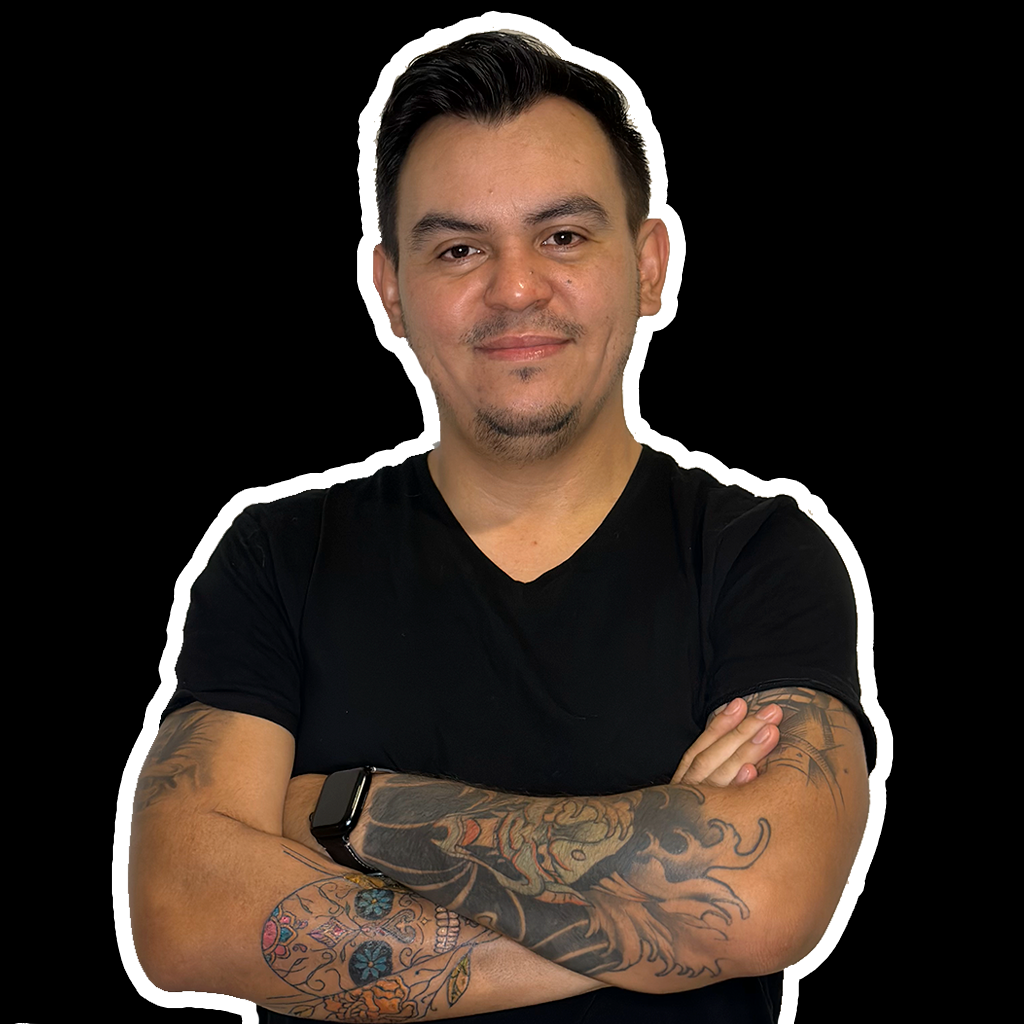
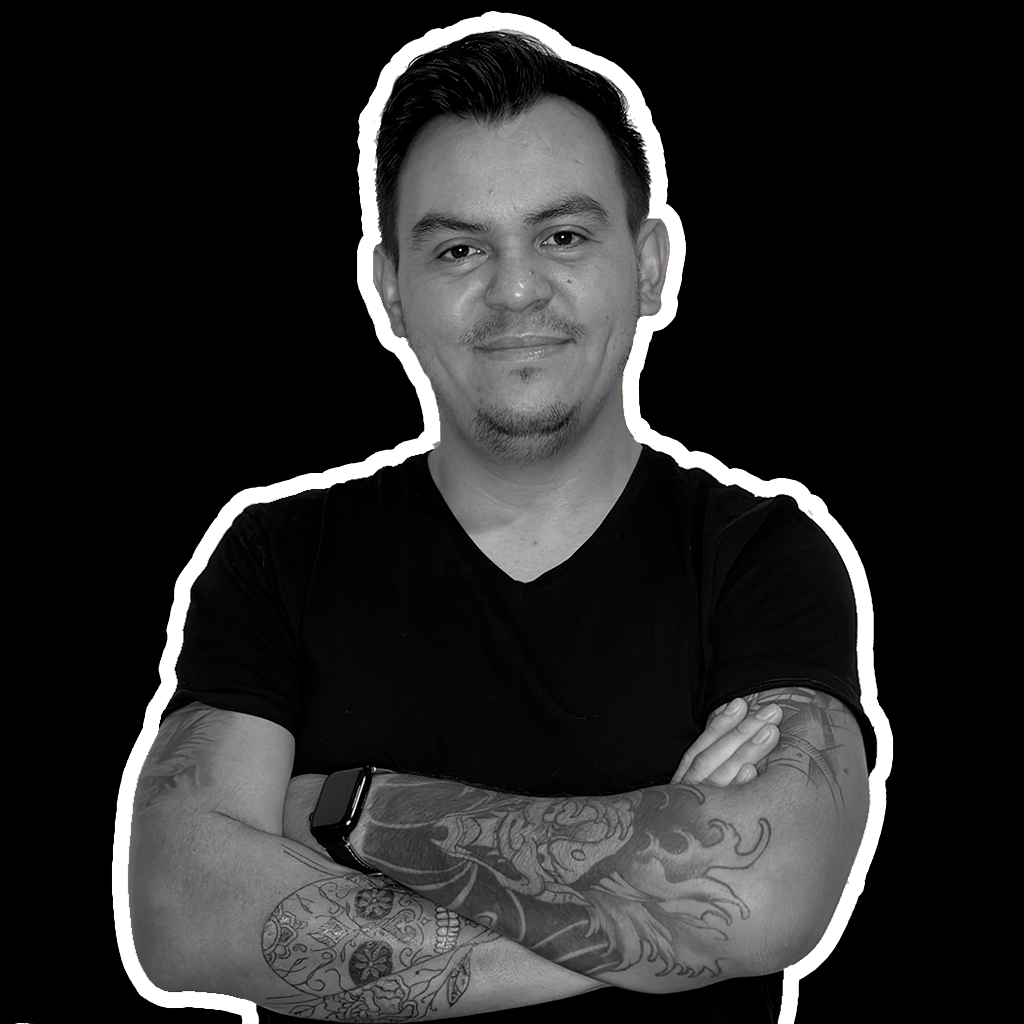
chore: profile picture changed, removed console logs

Changed region(s): [[0.125, 0.6562, 0.8438, 1.0], [0.3438, 0.0938, 0.6562, 0.5938]]

diff --git a/src/components/Videos.tsx b/src/components/Videos.tsx
@@ -12,7 +12,6 @@ interface Props {
 
 
 const Videos = ({videos}: Props) => {
-    console.log({videos})
     return (
         <div className='pb-10'>
           <h1 className='text-center font-bold text-3xl'>Videos</h1>

diff --git a/src/contentful/index.ts b/src/contentful/index.ts
@@ -19,8 +19,6 @@ export const getVideos = async () => {
     const response = await client.getEntries({
         content_type: 'youtubeVideo',
       })
-
-    console.log(response)
   
     return response.items;
 };
